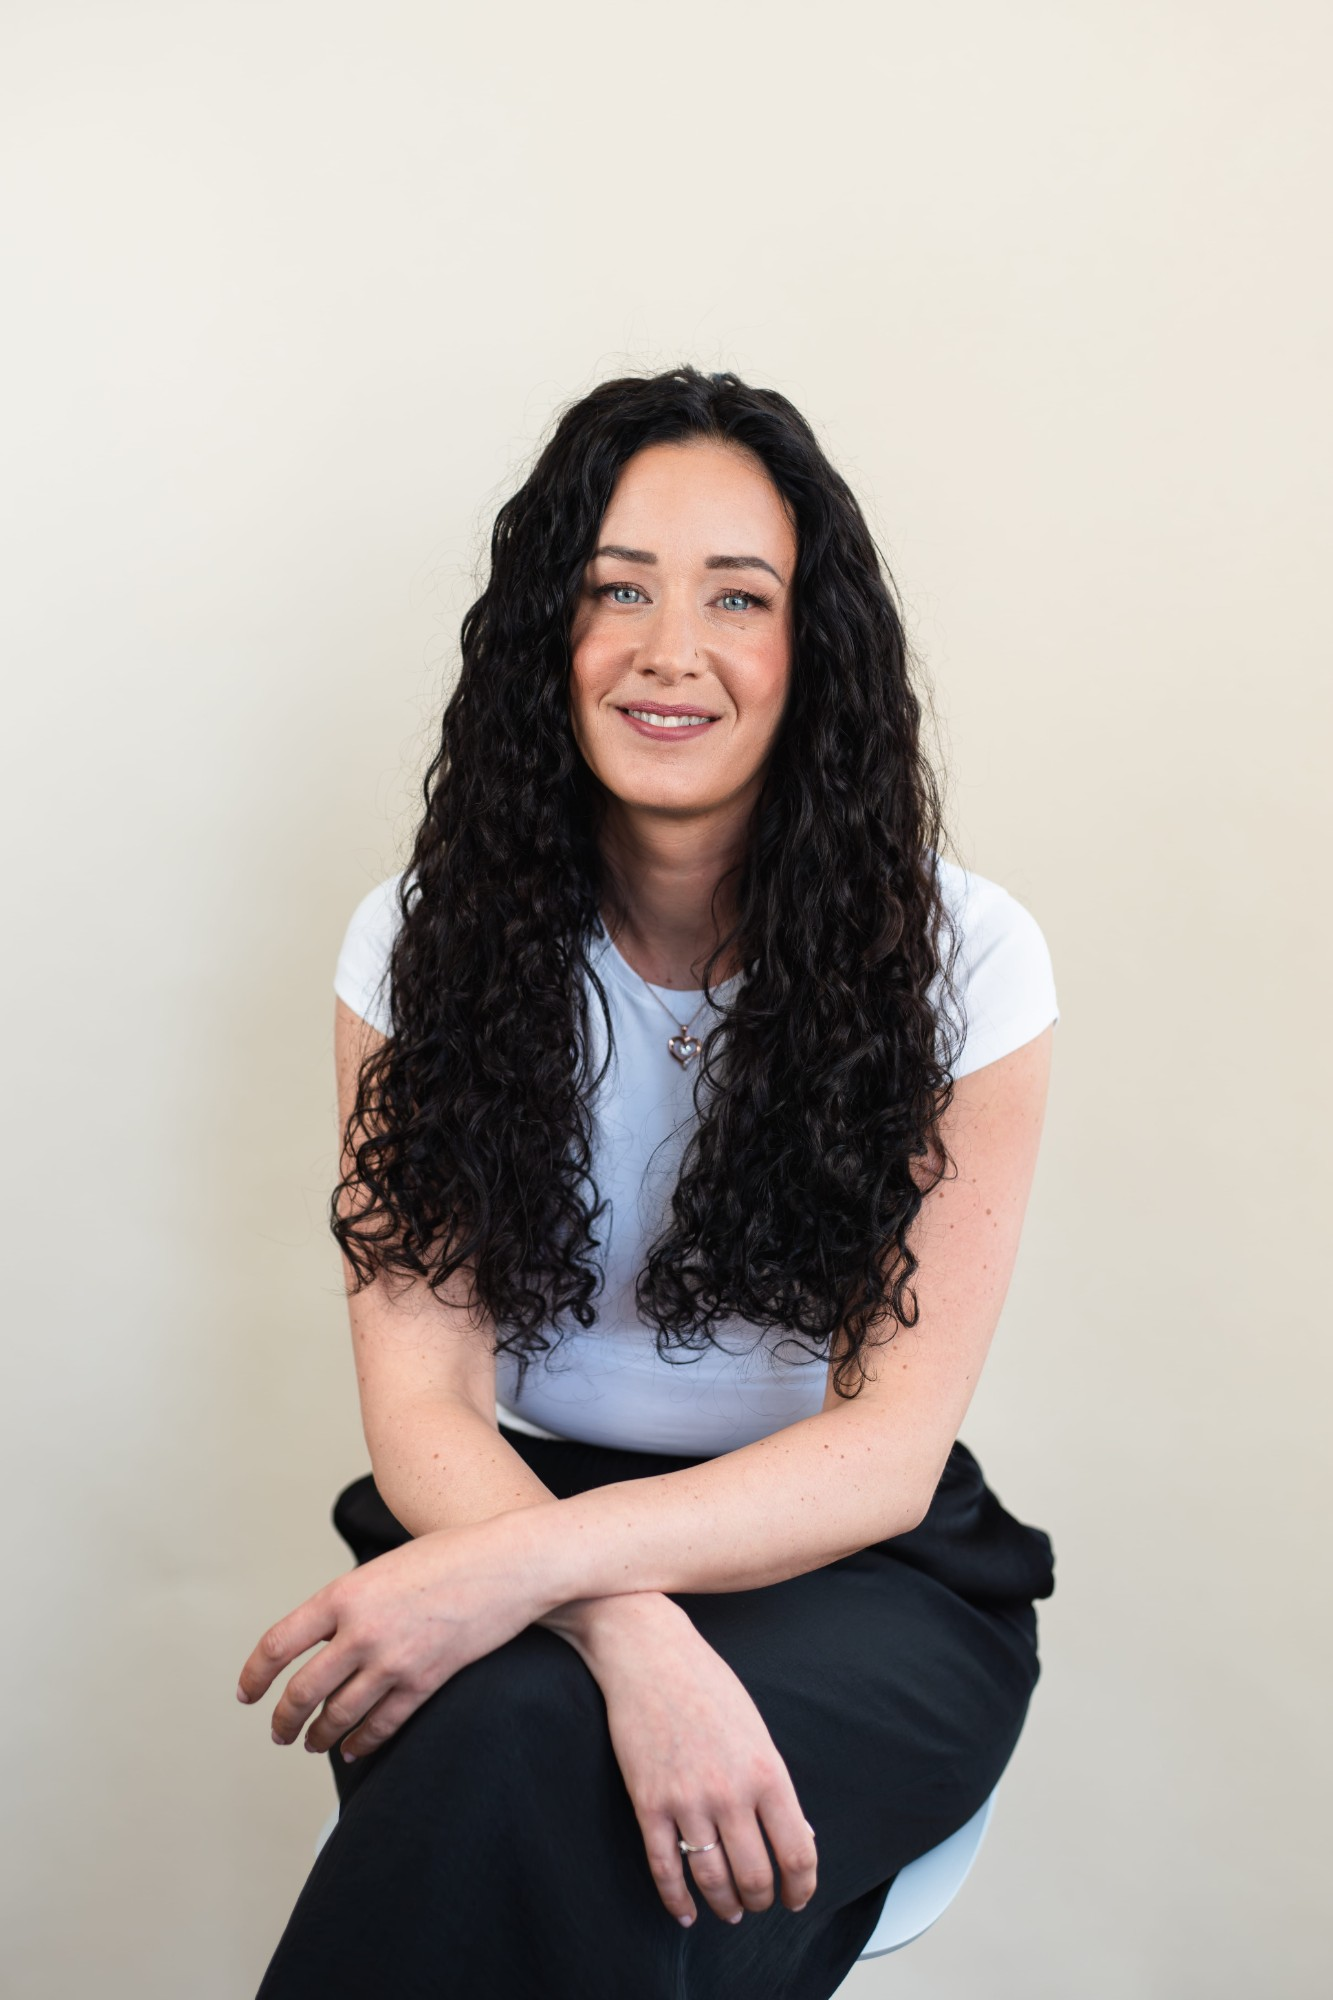
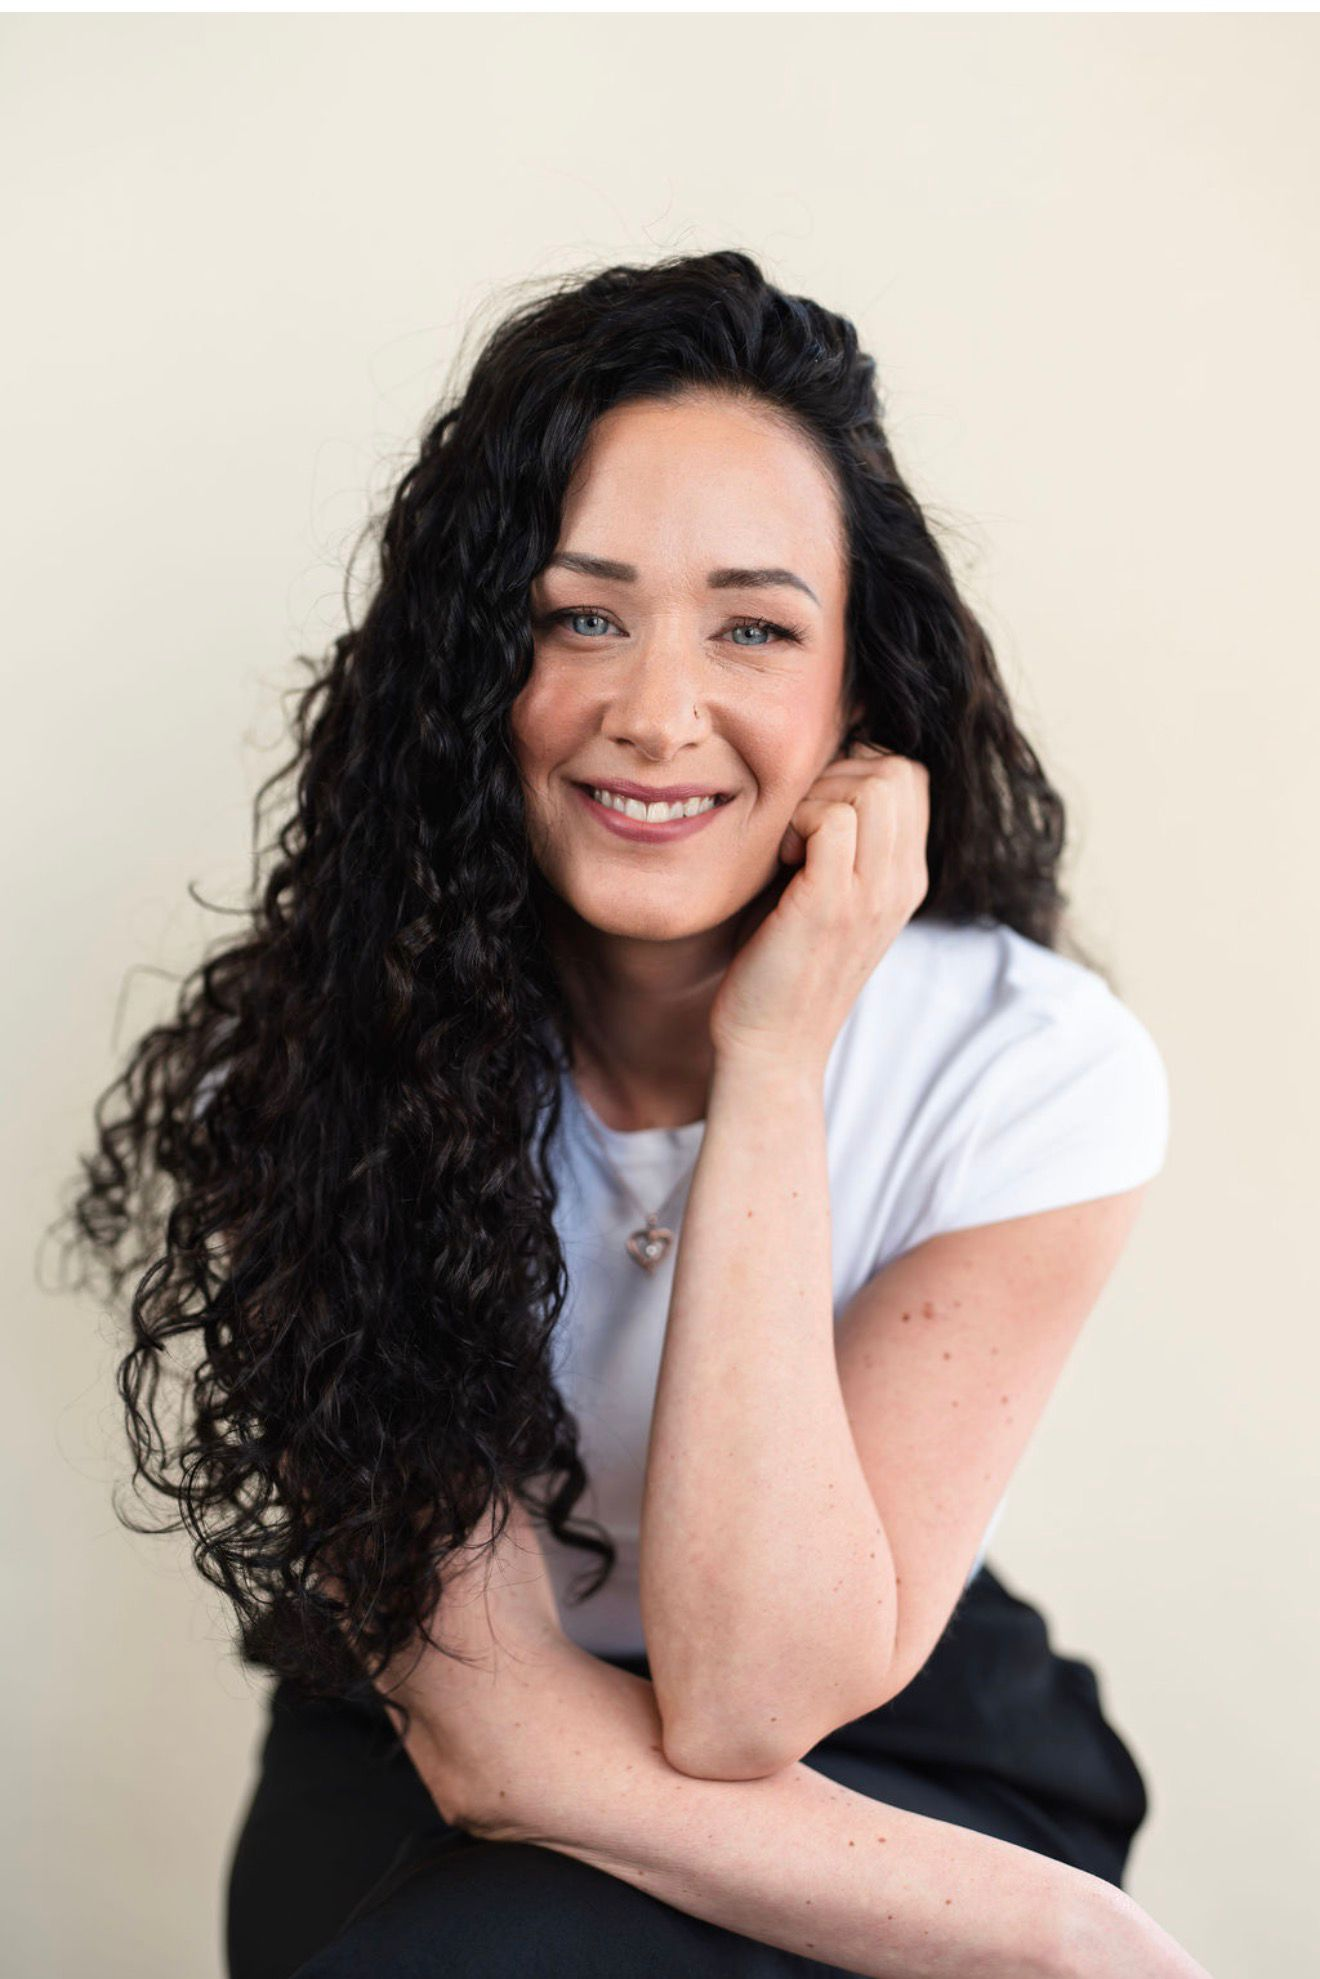
image replaced

diff --git a/lib/site.ts b/lib/site.ts
@@ -27,9 +27,8 @@ export function getSiteUrl(): string {
   return raw.replace(/\/+$/, "");
 }
 
-// Public-facing email shown on the contact page (display only).
-// Swap to the real address once the domain is set up.
-export const CONTACT_EMAIL = "hello@kinseyalawrence.com";
+// Public-facing email shown on the contact page and footer.
+export const CONTACT_EMAIL = "kinseyalawrence@gmail.com";
 
 export const SOCIALS = {
   instagram: "https://instagram.com/",
